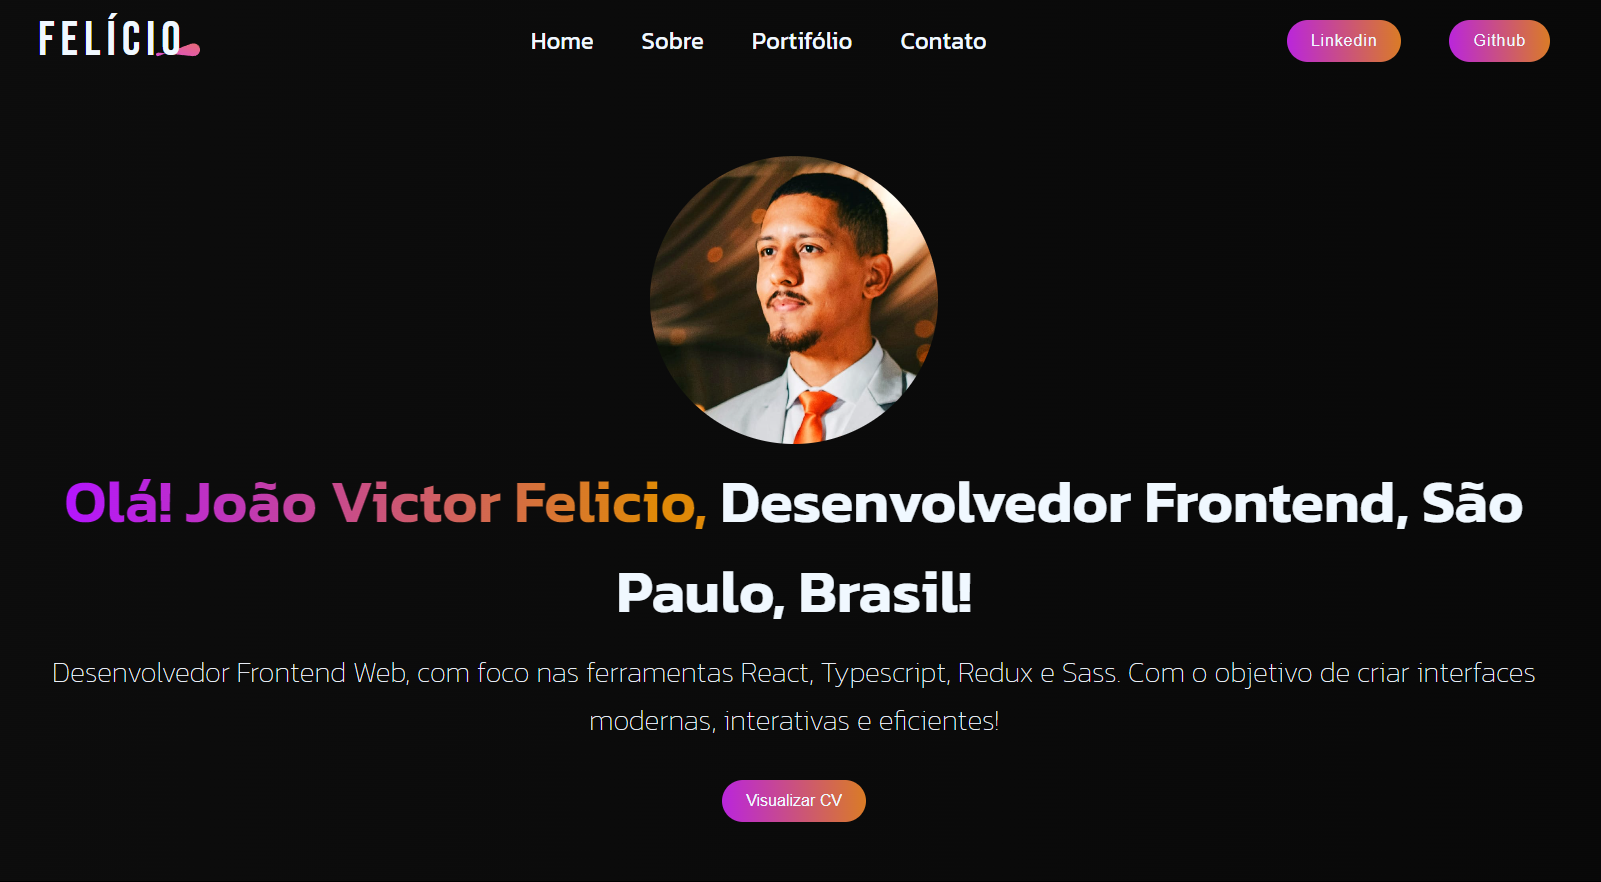
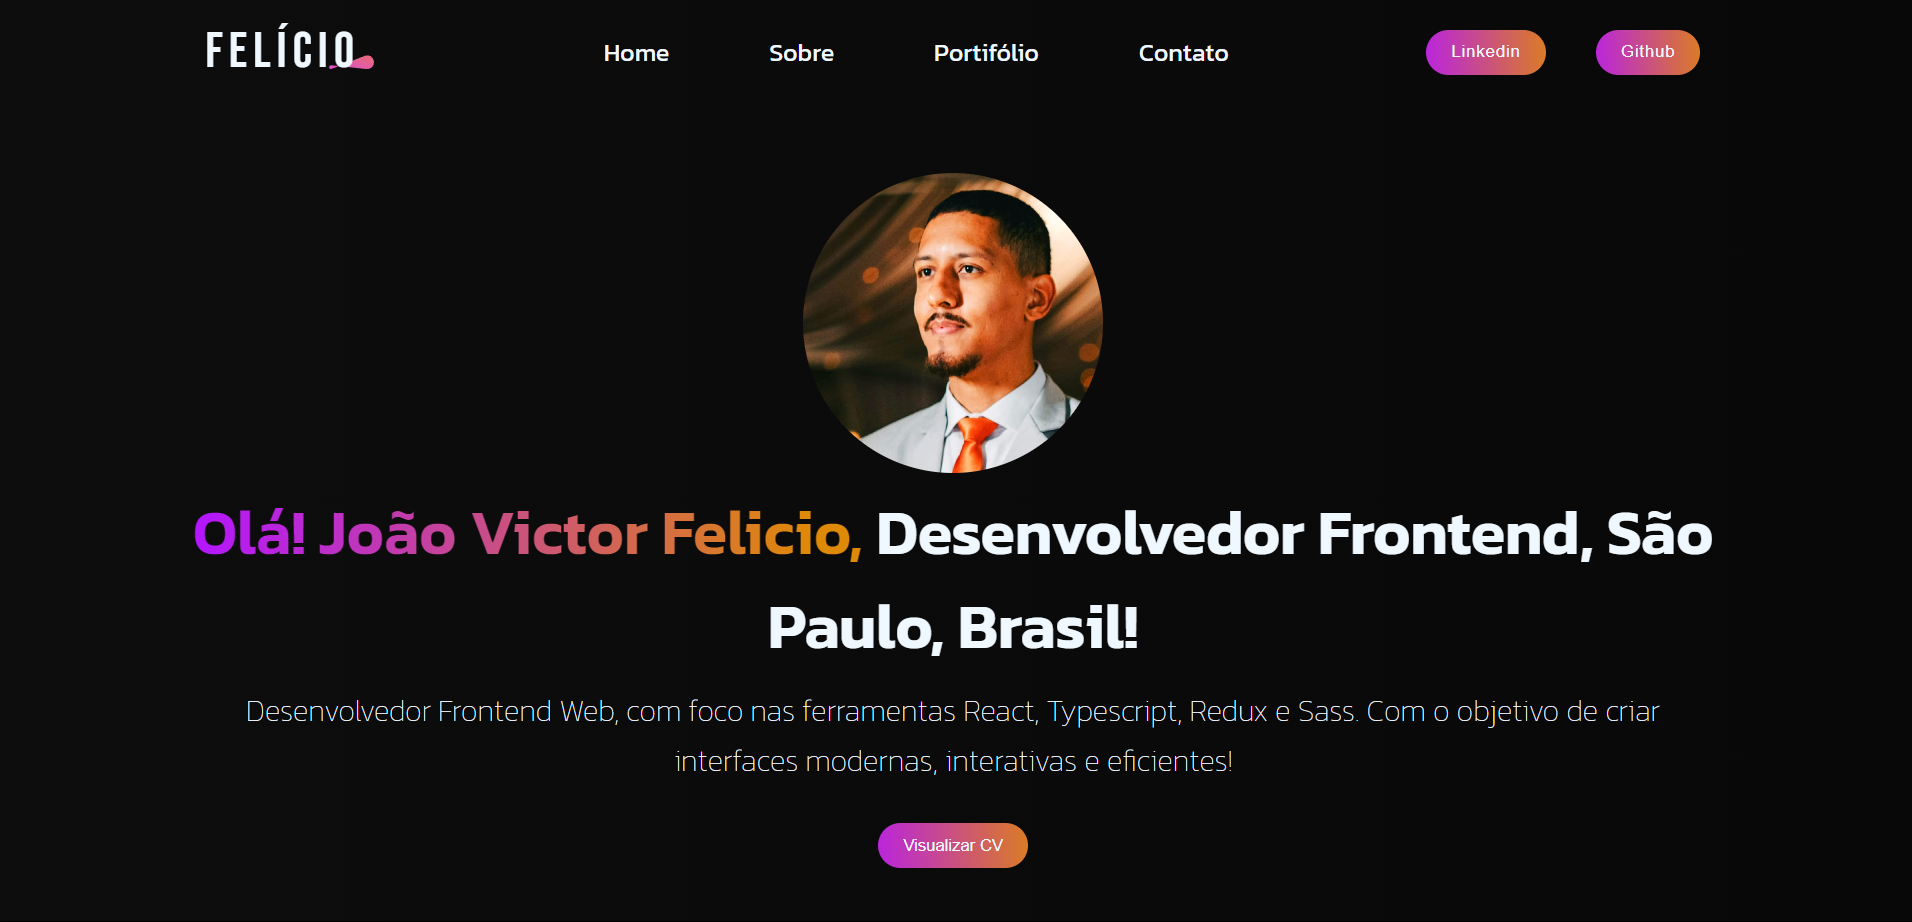
feat: create portifolio section

diff --git a/src/components/Portifolio/Portifolio.jsx b/src/components/Portifolio/Portifolio.jsx
@@ -1,8 +1,16 @@
 import { motion } from 'framer-motion';
 import theme_pattern from '/assets/theme_pattern.svg';
-import './style/Portifolio.scss';
 import PortifolioCard from './components/PortifolioCard';
+import './style/Portifolio.scss';
+import { portifolio_data } from './portifolio_data';
+import { useState } from 'react';
+
 export default function Portifolio() {
+  const [visibleItens, setVisibleItens] = useState(3);
+
+  function loadMoreItens() {
+    setVisibleItens((prev) => prev + 3);
+  }
   return (
     <motion.section
       initial={{ opacity: 0 }}
@@ -21,13 +29,36 @@ export default function Portifolio() {
         <img src={theme_pattern} />
       </motion.div>
       <div className="portifolio-cards">
-        <PortifolioCard />
-        <PortifolioCard />
-        <PortifolioCard />
-        <PortifolioCard />
-        <PortifolioCard />
-        <PortifolioCard />
+        {portifolio_data.slice(0, visibleItens).map((data, index) => {
+          return (
+            <PortifolioCard
+              key={data.title}
+              index={index}
+              thumbnail={data.thumbnail}
+              title={data.title}
+              description={data.description}
+              linkDemo={data.link_demo}
+              linkRepo={data.link_repo}
+            />
+          );
+        })}
       </div>
+
+      {portifolio_data.length > 3 && (
+        <motion.button
+          onClick={loadMoreItens}
+          className="ver-mais-btn"
+          initial={{ opacity: 0, y: 700 }}
+          animate={{ opacity: 1, y: 0 }}
+          transition={{
+            duration: 1.5,
+            ease: 'easeOut',
+            delay: 0.5,
+          }}
+        >
+          Ver Mais
+        </motion.button>
+      )}
     </motion.section>
   );
 }

diff --git a/src/components/Portifolio/components/PortifolioCard.jsx b/src/components/Portifolio/components/PortifolioCard.jsx
@@ -1,33 +1,40 @@
-import portifolio from '/assets/img/portifolio.webp';
-export default function PortifolioCard() {
+/* eslint-disable react/prop-types */
+import { motion } from 'framer-motion';
+export default function PortifolioCard({
+  thumbnail,
+  title,
+  description,
+  linkRepo,
+  linkDemo,
+  index,
+}) {
+  const delay = 1 + index * 0.1;
   return (
-    <div className="portifolio-card-container">
+    <motion.div
+      className="portifolio-card-container"
+      initial={{ opacity: 0, y: 100 }}
+      animate={{ opacity: 1, y: 0 }}
+      transition={{
+        duration: 1.5,
+        ease: 'easeOut',
+        delay: delay,
+      }}
+    >
       <div className="thumbnail-container">
-        <img src={portifolio} alt="" />
+        <img src={thumbnail} alt="" />
       </div>
       <div className="description-container">
-        <h1>Portifolio</h1>
-        <span>
-          Nesse projeto desenvolvi meu portifolio para centralizar os itens
-          desenvolvidos ao longo dos estudos
-        </span>
+        <h1>{title}</h1>
+        <span>{description}</span>
       </div>
       <div className="links-container">
-        <a
-          href="https://github.com/VictorFelicio/portifolio"
-          target="_blank"
-          rel="noopener noreferrer"
-        >
+        <a href={linkRepo} target="_blank" rel="noopener noreferrer">
           Repo
         </a>
-        <a
-          href="https://portifolio-joao-victor-felicio.vercel.app/"
-          target="_blank"
-          rel="noopener noreferrer"
-        >
+        <a href={linkDemo} target="_blank" rel="noopener noreferrer">
           Demo
         </a>
       </div>
-    </div>
+    </motion.div>
   );
 }

diff --git a/src/components/Portifolio/portifolio_data.js b/src/components/Portifolio/portifolio_data.js
@@ -1,0 +1,34 @@
+export const portifolio_data = [
+  {
+    thumbnail: '/assets/img/portifolio.webp',
+    title: 'Portifolio',
+    description:
+      'Portifólio com as informações sobre mim e projetos pessoais desenvolvidos. meus estudos contemplam todas as cosias nesse conetxto aprap teste',
+    link_repo: 'https://github.com/VictorFelicio/portifolio',
+    link_demo: 'https://github.com/VictorFelicio/portifolio',
+  },
+  {
+    thumbnail: '/assets/img/doctorcare.webp',
+    title: 'DoctorCare',
+    description:
+      'Landing page desenvolvido para uma clínica ficticia durante o NLW 2022 da RocketSeat instrução de mickey britto correira',
+    link_repo: 'https://github.com/VictorFelicio/DoctorCare-NLW',
+    link_demo: 'https://jvfelicio.github.io/DoctorCare-NLW/',
+  },
+  {
+    thumbnail: '/assets/img/portifolio.webp',
+    title: 'Portifolio',
+    description:
+      'Nesse projeto desenvolvi meu portifolio para centralizar os itens desenvolvidos ao longo dos estudos',
+    link_repo: 'https://github.com/VictorFelicio/portifolio',
+    link_demo: 'https://github.com/VictorFelicio/portifolio',
+  },
+  {
+    thumbnail: '/assets/img/portifolio.webp',
+    title: 'Portifolio',
+    description:
+      'Nesse projeto desenvolvi meu portifolio para centralizar os itens desenvolvidos ao longo dos estudos',
+    link_repo: 'https://github.com/VictorFelicio/portifolio',
+    link_demo: 'https://github.com/VictorFelicio/portifolio',
+  },
+];

diff --git a/src/components/Portifolio/style/Portifolio.scss b/src/components/Portifolio/style/Portifolio.scss
@@ -35,12 +35,33 @@
   }
 
   .portifolio-cards > * {
-    flex-basis: calc(
-      (100% / 3) - 16px
-    ); /* Divide o espaço em 3 itens por linha, ajustando para o gap */
+    flex-basis: calc((100% / 3) - 16px);
     max-width: calc((100% / 3) - 20px);
+    flex-grow: 0;
   }
-  flex-grow: 0;
+
+  .ver-mais-btn {
+    display: flex;
+    padding: 10px 50px;
+    background-color: transparent;
+    outline: 1px aliceblue solid;
+    color: aliceblue;
+    font-size: 16px;
+    font-weight: 600;
+    cursor: pointer;
+    border-radius: 8px;
+    margin-top: 40px;
+    margin-bottom: 40px;
+    transition:
+      box-shadow 0.3s ease,
+      transform 0.3s ease;
+
+    &:hover {
+      box-shadow: 0 0 10px rgba(255, 255, 255, 0.3);
+      border-radius: 8px;
+      transform: scale(1.07);
+    }
+  }
 }
 
 .portifolio-card-container {
@@ -76,6 +97,11 @@
     text-align: justify;
     letter-spacing: 0.5px;
     font-weight: 100;
+
+    h1 {
+      font-size: 18px;
+      padding: 5px 0;
+    }
   }
   .links-container {
     display: flex;

diff --git a/src/globals.scss b/src/globals.scss
@@ -13,3 +13,22 @@ body {
     rgba(0, 0, 0, 0.9697128851540616) 100%
   );
 }
+/* Estilizando a barra de rolagem no Chrome */
+::-webkit-scrollbar {
+  width: 8px; /* Largura da barra de rolagem vertical */
+}
+
+::-webkit-scrollbar-track {
+  background: rgba(50, 50, 50, 0.8); /* Cor do fundo da barra de rolagem */
+}
+
+::-webkit-scrollbar-thumb {
+  background: rgba(54, 54, 54, 0.7); /* Cor da "bolinha" da barra de rolagem */
+  border-radius: 10px; /* Bordas arredondadas na "bolinha" */
+  transition: background 0.3s; /* Transição suave */
+}
+
+/* Efeito ao passar o mouse */
+::-webkit-scrollbar-thumb:hover {
+  background: rgba(100, 100, 100, 0.9); /* Cor da "bolinha" ao passar o mouse */
+}

diff --git a/src/components/Navbar/Navbar.jsx b/src/components/Navbar/Navbar.jsx
@@ -33,10 +33,22 @@ export default function Navbar() {
 
       <div className="nav-connect">
         <button>
-          <a href="">Linkedin</a>
+          <a
+            href="https://www.linkedin.com/in/joaofeliciodev/"
+            target="_blank"
+            rel="noopener noreferrer"
+          >
+            Linkedin
+          </a>
         </button>
         <button>
-          <a href="">Github</a>
+          <a
+            href="https://github.com/VictorFelicio"
+            target="_blank"
+            rel="noopener noreferrer"
+          >
+            Github
+          </a>
         </button>
       </div>
     </motion.nav>

diff --git a/src/components/Navbar/style/Navbar.scss b/src/components/Navbar/style/Navbar.scss
@@ -9,13 +9,24 @@
   display: flex;
   align-items: center;
   list-style: none;
-  gap: 40px;
 
   a {
+    display: inline-block;
     text-decoration: none;
     font-size: 20px;
     color: aliceblue;
     font-family: 'Kanit', sans-serif;
+    padding: 8px 40px;
+
+    transition:
+      box-shadow 0.3s ease,
+      transform 0.3s ease;
+  }
+
+  a:hover {
+    box-shadow: 0 0 10px rgba(255, 255, 255, 0.3);
+    border-radius: 8px;
+    transform: scale(1.07);
   }
 }
 
